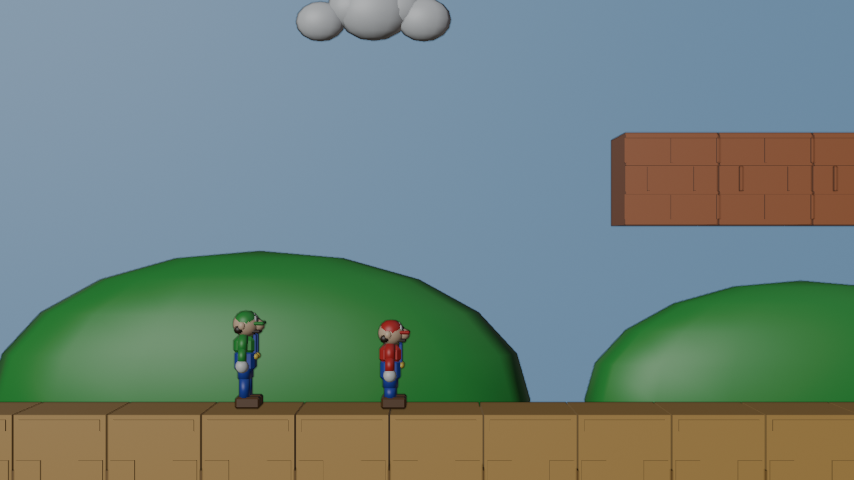
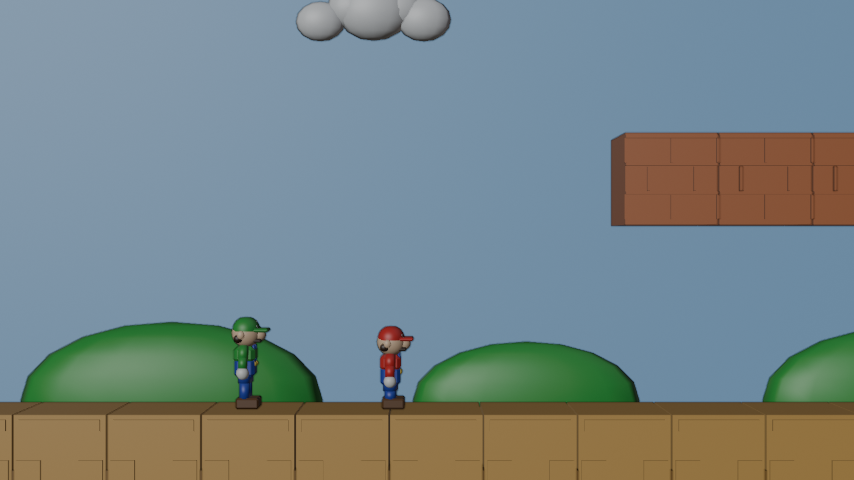
Update benchmark sources and with-kit inspection renders
Both arms still running. Captures the with-kit arm's per-asset Workbench
inspection passes.

Claude-Session: https://claude.ai/code/session_01Qve2YkcArMkRv71ZdpBGav

Changed region(s): [[0.0, 0.5, 1.0, 0.8438]]

diff --git a/bench/with-kit/build_scene.py b/bench/with-kit/build_scene.py
@@ -49,6 +49,22 @@ def apply_rot(ob):
     return ob
 
 
+def fit_height(rig, body, h_target):
+    """Uniform scale on the ARMATURE so the character stands exactly h_target
+    tall. Measured from the object bound box after an explicit depsgraph update
+    - reading evaluated_get() before the update returns the pre-modifier mesh
+    and silently gives the wrong scale factor."""
+    rig.scale = (1, 1, 1)
+    bpy.context.view_layer.update()
+    zs = [body.matrix_world @ Vector(c) for c in body.bound_box]
+    zmax = max(v.z for v in zs)
+    k = h_target / zmax
+    rig.scale = (k, k, k)
+    bpy.context.view_layer.update()
+    print(f"[fit] {rig.name}: raw {zmax:.4f} -> x{k:.4f} = {h_target}")
+    return k
+
+
 # ===================================================================== plumber
 def build_plumber(name, shirt, hat, h_target, le=0.0, w=1.0):
     """le = leg extra (Luigi is taller in the legs), w = body width factor."""
@@ -78,16 +94,16 @@ def build_plumber(name, shirt, hat, h_target, le=0.0, w=1.0):
     # --- legs / boots
     for s, sg in (("L", 1), ("R", -1)):
         pr(box(f"{name}_boot.{s}", (0.030, sg * hy, Z_ANK - 0.042),
-               (0.215, 0.120 * w, 0.100), mat=P["brown"], bevel=0.016), f"foot.{s}")
+               (0.235, 0.140 * w, 0.110), mat=P["brown"], bevel=0.018), f"foot.{s}")
         pr(limb(f"{name}_shin.{s}", (0, sg * hy, Z_KNEE), (0, sg * hy, Z_ANK - 0.01),
-                0.054 * w, P["blue"]), f"shin.{s}")
+                0.062 * w, P["blue"]), f"shin.{s}")
         pr(limb(f"{name}_thigh.{s}", (0, sg * hy, Z_HIP + 0.01), (0, sg * hy, Z_KNEE),
-                0.066 * w, P["blue"]), f"thigh.{s}")
+                0.076 * w, P["blue"]), f"thigh.{s}")
     # --- torso
     pr(box(f"{name}_overalls", (0, 0, (Z_HIP + Z_WAIST) / 2 + 0.015),
-           (0.175, 0.225 * w, 0.185), mat=P["blue"], bevel=0.030), "hips")
+           (0.205, 0.265 * w, 0.195), mat=P["blue"], bevel=0.034), "hips")
     pr(box(f"{name}_shirt", (0, 0, Z_CHEST + 0.045),
-           (0.190, 0.245 * w, 0.150), mat=shirt, bevel=0.034), "chest")
+           (0.215, 0.290 * w, 0.165), mat=shirt, bevel=0.038), "chest")
     for sg in (1, -1):
         pr(box(f"{name}_strap{sg}", (0.090, sg * 0.062 * w, Z_CHEST + 0.055),
                (0.028, 0.055 * w, 0.165), mat=P["blue"], bevel=0.006), "chest")
@@ -96,45 +112,39 @@ def build_plumber(name, shirt, hat, h_target, le=0.0, w=1.0):
     # --- arms
     for s, sg in (("L", 1), ("R", -1)):
         pr(limb(f"{name}_uarm.{s}", (0, sg * sy, Z_SHLD + 0.015),
-                (0, sg * (sy + 0.055), Z_SHLD - 0.105), 0.048 * w, shirt), f"uarm.{s}")
+                (0, sg * (sy + 0.055), Z_SHLD - 0.105), 0.058 * w, shirt), f"uarm.{s}")
         pr(limb(f"{name}_larm.{s}", (0, sg * (sy + 0.050), Z_SHLD - 0.095),
-                (0, sg * (sy + 0.075), Z_SHLD - 0.205), 0.042 * w, shirt), f"larm.{s}")
-        pr(ball(f"{name}_hand.{s}", (0, sg * (sy + 0.080), Z_SHLD - 0.240), 0.058,
+                (0, sg * (sy + 0.075), Z_SHLD - 0.205), 0.052 * w, shirt), f"larm.{s}")
+        pr(ball(f"{name}_hand.{s}", (0, sg * (sy + 0.082), Z_SHLD - 0.248), 0.066,
                 scale=(1.0, 0.85, 1.0), mat=P["white"], seg=12, rings=8), f"hand.{s}")
     # --- head
-    pr(ball(f"{name}_head", (0.005, 0, Z_HEAD), 0.108, scale=(1.08, 1.0, 1.02),
-            mat=P["skin"], seg=18, rings=12), "head")
-    pr(ball(f"{name}_nose", (0.105, 0, Z_HEAD - 0.012), 0.054,
+    pr(ball(f"{name}_head", (0.005, 0, Z_HEAD + 0.030), 0.142, scale=(1.05, 0.97, 1.00),
+            mat=P["skin"], seg=20, rings=14), "head")
+    pr(ball(f"{name}_nose", (0.132, 0, Z_HEAD + 0.012), 0.068,
             scale=(1.15, 1.0, 1.0), mat=P["skin"], seg=12, rings=8), "head")
     for sg in (1, -1):
-        pr(box(f"{name}_mous{sg}", (0.092, sg * 0.032, Z_HEAD - 0.062),
-               (0.090, 0.060, 0.034), mat=P["hair"], bevel=0.010), "head")
-        pr(ball(f"{name}_eyew{sg}", (0.090, sg * 0.036, Z_HEAD + 0.038), 0.028,
+        pr(box(f"{name}_mous{sg}", (0.112, sg * 0.040, Z_HEAD - 0.042),
+               (0.110, 0.080, 0.042), mat=P["hair"], bevel=0.012), "head")
+        pr(ball(f"{name}_eyew{sg}", (0.110, sg * 0.046, Z_HEAD + 0.082), 0.036,
                 scale=(0.55, 1.0, 1.30), mat=P["white"], seg=10, rings=8), "head")
-        pr(ball(f"{name}_eyep{sg}", (0.108, sg * 0.036, Z_HEAD + 0.036), 0.016,
+        pr(ball(f"{name}_eyep{sg}", (0.134, sg * 0.046, Z_HEAD + 0.080), 0.019,
                 scale=(0.6, 1.0, 1.1), mat=P["black"], seg=8, rings=6), "head")
-        pr(ball(f"{name}_ear{sg}", (-0.020, sg * 0.104, Z_HEAD - 0.010), 0.032,
+        pr(ball(f"{name}_ear{sg}", (-0.030, sg * 0.136, Z_HEAD + 0.020), 0.040,
                 scale=(1.0, 0.6, 1.1), mat=P["skin"], seg=10, rings=8), "head")
-        pr(ball(f"{name}_sideb{sg}", (-0.050, sg * 0.080, Z_HEAD - 0.045), 0.040,
+        pr(ball(f"{name}_sideb{sg}", (-0.062, sg * 0.108, Z_HEAD - 0.020), 0.048,
                 scale=(1.0, 0.7, 0.9), mat=P["hair"], seg=10, rings=8), "head")
     # --- cap: lathed crown + brim + emblem
-    pr(lathe(f"{name}_crown", (0.005, 0, Z_CAP - 0.030),
-             [(0.000, 0.088), (0.046, 0.082), (0.080, 0.058),
-              (0.100, 0.026), (0.106, 0.000), (0.106, -0.022)],
+    pr(lathe(f"{name}_crown", (0.005, 0, Z_CAP + 0.028),
+             [(0.000, 0.112), (0.060, 0.104), (0.104, 0.074),
+              (0.130, 0.034), (0.140, 0.000), (0.140, -0.030)],
              mat=hat, steps=22), "cap")
-    pr(box(f"{name}_brim", (0.108, 0, Z_CAP - 0.050), (0.125, 0.165, 0.030),
-           mat=hat, bevel=0.012), "cap")
-    pr(ball(f"{name}_emblem", (0.078, 0, Z_CAP + 0.000), 0.040,
-            scale=(0.35, 1.0, 1.0), mat=P["white"], seg=12, rings=8), "cap")
+    pr(box(f"{name}_brim", (0.158, 0, Z_CAP + 0.006), (0.165, 0.215, 0.038),
+           mat=hat, bevel=0.014), "cap")
+    pr(ball(f"{name}_emblem", (0.108, 0, Z_CAP + 0.052), 0.052,
+            scale=(0.30, 1.0, 1.0), mat=P["white"], seg=12, rings=8), "cap")
 
     rig, body = rg.build()
-    # exact height -> uniform scale on the armature object
-    dg = bpy.context.evaluated_depsgraph_get()
-    me = body.evaluated_get(dg).data
-    zmax = max(v.co.z for v in me.vertices)
-    k = h_target / zmax
-    rig.scale = (k, k, k)
-    bpy.context.view_layer.update()
+    k = fit_height(rig, body, h_target)
     return rig, body, k
 
 
@@ -179,26 +189,21 @@ def build_koopa(name):
                                     0.118 * math.sin(a), 0.175 + 0.095 * math.cos(a)),
                 0.034, scale=(0.5, 1.0, 1.0), mat=P["shelll"], seg=8, rings=6), "shell")
     # head
-    pr(ball(f"{name}_head", (0.055, 0, 0.345), 0.105, scale=(1.0, 0.95, 0.92),
+    pr(ball(f"{name}_head", (0.085, 0, 0.360), 0.135, scale=(1.0, 0.95, 0.94),
             mat=P["yellow"], seg=18, rings=12), "head")
-    pr(cyl(f"{name}_beak", (0.165, 0, 0.330), 0.052, 0.080, rot=(0, R(90), 0),
+    pr(cyl(f"{name}_beak", (0.225, 0, 0.345), 0.062, 0.105, rot=(0, R(90), 0),
            r2=0.012, mat=P["beak"], seg=12, bevel=0.0), "head")
     for sg in (1, -1):
-        pr(ball(f"{name}_eyew{sg}", (0.105, sg * 0.048, 0.392), 0.034,
+        pr(ball(f"{name}_eyew{sg}", (0.145, sg * 0.056, 0.420), 0.040,
                 scale=(0.8, 1.0, 1.15), mat=P["white"], seg=10, rings=8), "eye")
-        pr(ball(f"{name}_eyep{sg}", (0.128, sg * 0.050, 0.390), 0.018,
+        pr(ball(f"{name}_eyep{sg}", (0.176, sg * 0.058, 0.418), 0.020,
                 mat=P["black"], seg=8, rings=6), "eye")
         for rr in (35, -35):
-            pr(box(f"{name}_x{sg}_{rr}", (0.122, sg * 0.050, 0.392),
-                   (0.012, 0.012, 0.085), rot=(0, R(rr), 0),
+            pr(box(f"{name}_x{sg}_{rr}", (0.172, sg * 0.058, 0.420),
+                   (0.016, 0.014, 0.105), rot=(0, R(rr), 0),
                    mat=P["black"], bevel=0.0), "xeye")
-    rig, body, = rg.build()
-    dg = bpy.context.evaluated_depsgraph_get()
-    me = body.evaluated_get(dg).data
-    zmax = max(v.co.z for v in me.vertices)
-    k = 0.70 / zmax
-    rig.scale = (k, k, k)
-    bpy.context.view_layer.update()
+    rig, body = rg.build()
+    k = fit_height(rig, body, 0.70)
     # eyes normal, X hidden
     rig.pose.bones["xeye"].scale = (0.001, 0.001, 0.001)
     bpy.context.view_layer.update()
@@ -370,9 +375,9 @@ def main():
         cloud(f"Cloud{i}", x, z, s)
     # sky card + hills
     sky = box("Sky", (0, 15.0, 5.0), (90, 0.2, 34), mat=P["sky"], bevel=0.0)
-    for i, (x, r) in enumerate(((-9, 5.5), (2, 4.4), (12, 6.0))):
-        h = ball(f"Hill{i}", (x, 11.0, -1.4), r, scale=(1.0, 0.25, 0.55),
-                 mat=P["green"], seg=16, rings=10)
+    for i, (x, r) in enumerate(((-11, 3.2), (-3.5, 2.4), (4.5, 3.0), (13, 2.6))):
+        ball(f"Hill{i}", (x, 12.0, -1.55), r, scale=(1.0, 0.22, 0.52),
+             mat=P["green"], seg=16, rings=10)
     lap("environment")
 
     mario_rig, mario_body, km = build_plumber("Mario", P["red"], P["red"], 0.90, le=0.0, w=1.0)
@@ -420,9 +425,9 @@ def main():
     cam = bpy.data.objects.new("Camera", cam_d)
     sc.collection.objects.link(cam)
     sc.camera = cam
-    frame_h = 5.0
+    frame_h = 4.3
     dist = RN.frame_distance(frame_h, lens=50.0, sensor=36.0 * 480 / 854, margin=1.06)
-    cam.location = (-5.6, -dist, 1.85)
+    cam.location = (-5.6, -dist, 1.55)
     cam.rotation_euler = Euler((R(90), 0, 0), 'XYZ')
     print(f"[cam] side-on distance for a {frame_h} unit tall frame: {dist:.2f}")
 

diff --git a/bench/no-kit/build.py b/bench/no-kit/build.py
@@ -115,14 +115,14 @@ def plumber(name, shirt, hat, tall=1.0, wide=1.0, nose_r=0.072,
              (0.118, 0, 0.100 * tall), m_hair, bevel=0.02)
     attach_local(ms, head)
     for s in (-1, 1):
-        ey = sphere(p + ".eye%d" % s, 0.040, (0.112, 0.055 * s, 0.215 * tall),
-                    m_white, segs=12, rings=8, scale=(0.7, 1.0, 1.25))
+        ey = sphere(p + ".eye%d" % s, 0.040, (0.122, 0.058 * s, 0.218 * tall),
+                    m_white, segs=12, rings=8, scale=(0.75, 1.0, 1.3))
         attach_local(ey, head)
-        pu = sphere(p + ".pupil%d" % s, 0.019,
-                    (0.139, 0.058 * s, 0.215 * tall), m_dark, segs=10, rings=6)
+        pu = sphere(p + ".pupil%d" % s, 0.024,
+                    (0.152, 0.061 * s, 0.218 * tall), m_dark, segs=10, rings=6)
         attach_local(pu, head)
         eb = box(p + ".brow%d" % s, (0.030, 0.026, 0.011),
-                 (0.118, 0.055 * s, 0.262 * tall), m_hair)
+                 (0.128, 0.058 * s, 0.268 * tall), m_hair)
         attach_local(eb, head)
         er = sphere(p + ".ear%d" % s, 0.045, (-0.01, 0.154 * s, 0.158 * tall),
                     m_skin, segs=10, rings=7, scale=(1.0, 0.6, 1.1))
@@ -181,9 +181,9 @@ def koopa(name="koopa"):
 
     root = joint(p, (0, 0, 0))
     root.empty_display_size = 0.2
-    hips = joint(p + ".hips", (0, 0, 0.30), root)
+    hips = joint(p + ".hips", (0, 0, 0.34), root)
     body = joint(p + ".body", (0, 0, 0), hips)
-    neck = joint(p + ".neck", (0.03, 0, 0.26), body)
+    neck = joint(p + ".neck", (0.04, 0, 0.30), body)
     head = joint(p + ".head", (0, 0, 0), neck)
 
     torso = sphere(p + ".torso", 0.175, (0, 0, 0.03), m_sk, segs=18, rings=11,
@@ -253,20 +253,31 @@ def koopa(name="koopa"):
 # ------------------------------------------------------------------ world
 
 def q_mark(parent, zoff, material):
-    """'?' glyph built from slabs, on the +Y and -Y faces of a block."""
-    seg = [((0.000, 0.205), (0.078, 0.034)),      # top bar
-           ((-0.078, 0.150), (0.034, 0.055)),     # upper-left shoulder
-           ((0.078, 0.140), (0.034, 0.065)),      # upper-right side
-           ((0.030, 0.060), (0.082, 0.034)),      # hook coming back left
-           ((0.000, -0.020), (0.034, 0.082)),     # stem
-           ((0.000, -0.145), (0.040, 0.040))]     # dot
+    """'?' as a pixel grid, stamped on the +Y and -Y faces of a block."""
+    rows = ["..XXX..",
+            ".X...X.",
+            ".X...X.",
+            "....X..",
+            "...X...",
+            "...X...",
+            ".......",
+            "...X..."]
+    cell = 0.072
     out = []
+    h = len(rows)
+    w = len(rows[0])
     for sgn in (-1, 1):
-        for i, ((ox, oz), (sx, sz)) in enumerate(seg):
-            b = box("qm_%d_%d" % (sgn, i), (sx, 0.020, sz),
-                    (ox, 0.498 * sgn, zoff + oz), material)
-            attach_local(b, parent)
-            out.append(b)
+        for r, line in enumerate(rows):
+            for c, ch in enumerate(line):
+                if ch != "X":
+                    continue
+                ox = (c - (w - 1) / 2.0) * cell
+                oz = ((h - 1) / 2.0 - r) * cell
+                b = box("qm_%d_%d_%d" % (sgn, r, c),
+                        (cell * 0.52, 0.020, cell * 0.52),
+                        (ox, 0.498 * sgn, zoff + oz), material)
+                attach_local(b, parent)
+                out.append(b)
     return out
 
 
@@ -507,14 +518,14 @@ def camera():
 def build_set():
     s = {}
     s["ground"] = ground()
-    s["bricks"] = [brick((x, 0, 2.0), "brick_%d" % i)
-                   for i, x in enumerate((-3.0, -2.0, -1.0, 1.0, 2.0, 3.0))]
-    s["qb"] = q_block((0.0, 0, 2.0))
+    s["bricks"] = [brick((x, 0, 1.9), "brick_%d" % i)
+                   for i, x in enumerate((-2.0, -1.0, 1.0, 2.0))]
+    s["qb"] = q_block((0.0, 0, 1.9))
     s["pipe"] = pipe((9.5, 0, 0.0))
     s["pipe2"] = pipe((-13.0, 0, 0.0))
-    s["mush"] = mushroom((0.0, 0, 2.0))
+    s["mush"] = mushroom((0.0, 0, 1.9))
     s["mush"].scale = (0, 0, 0)
-    s["coin"] = coin((0.0, 0, 2.0))
+    s["coin"] = coin((0.0, 0, 1.9))
     s["coin"].scale = (0, 0, 0)
     s["lshell"] = loose_shell((0, 0, 0.26))
     s["clouds"] = clouds()

diff --git a/bench/no-kit/smoke.py b/bench/no-kit/smoke.py
@@ -7,8 +7,8 @@ s["mario"]["root"].location=(-1.0,0,0); s["mario"]["root"].scale=(0.9,)*3
 s["mario"]["root"].rotation_euler=(0,0,YAW)
 s["luigi"]["root"].location=(1.1,0,0);  s["luigi"]["root"].scale=(0.9,)*3
 s["luigi"]["root"].rotation_euler=(0,0,YAW)
-s["koopa"]["root"].location=(3.8,0,0);  s["koopa"]["root"].rotation_euler=(0,0,math.pi-YAW)
-s["cam"].location=(0.6,-9.6,1.55)
+s["koopa"]["root"].location=(3.8,0,0); s["koopa"]["root"].scale=(1.12,)*3;  s["koopa"]["root"].rotation_euler=(0,0,math.pi-YAW)
+s["cam"].location=(0.6,-10.2,1.60)
 bpy.context.view_layer.update()
 v,t = lib.poly_count(); print("VERTS",v,"TRIS",t)
 t2=time.time(); lib.set_cycles(24,3,True); lib.render_still("//tmp/smoke_cy.png")

diff --git a/bench/with-kit/inspect_scene.py b/bench/with-kit/inspect_scene.py
@@ -16,9 +16,9 @@ RN.workbench(shading="STUDIO", color_type="MATERIAL", outline=True, cavity=False
 
 views = [
     ("wide",    (-5.6, -13.1, 1.85), (854, 480), 50.0),
-    ("heroes",  (-6.8, -3.3, 0.85),  (400, 400), 60.0),
-    ("mario",   (-6.0, -1.6, 0.52),  (380, 460), 55.0),
-    ("luigi",   (-7.6, -1.7, 0.58),  (380, 460), 55.0),
+    ("heroes",  (-6.8, -3.3, 0.55),  (400, 400), 60.0),
+    ("mario",   (-6.0, -1.7, 0.48),  (400, 400), 55.0),
+    ("luigi",   (-7.6, -1.8, 0.52),  (400, 400), 55.0),
     ("koopa",   (11.5, -1.6, 0.42),  (400, 400), 55.0),
     ("qblock",  (0.0, -3.2, 2.5),    (400, 400), 60.0),
     ("pipe",    (8.2, -4.0, 1.1),    (400, 400), 55.0),
